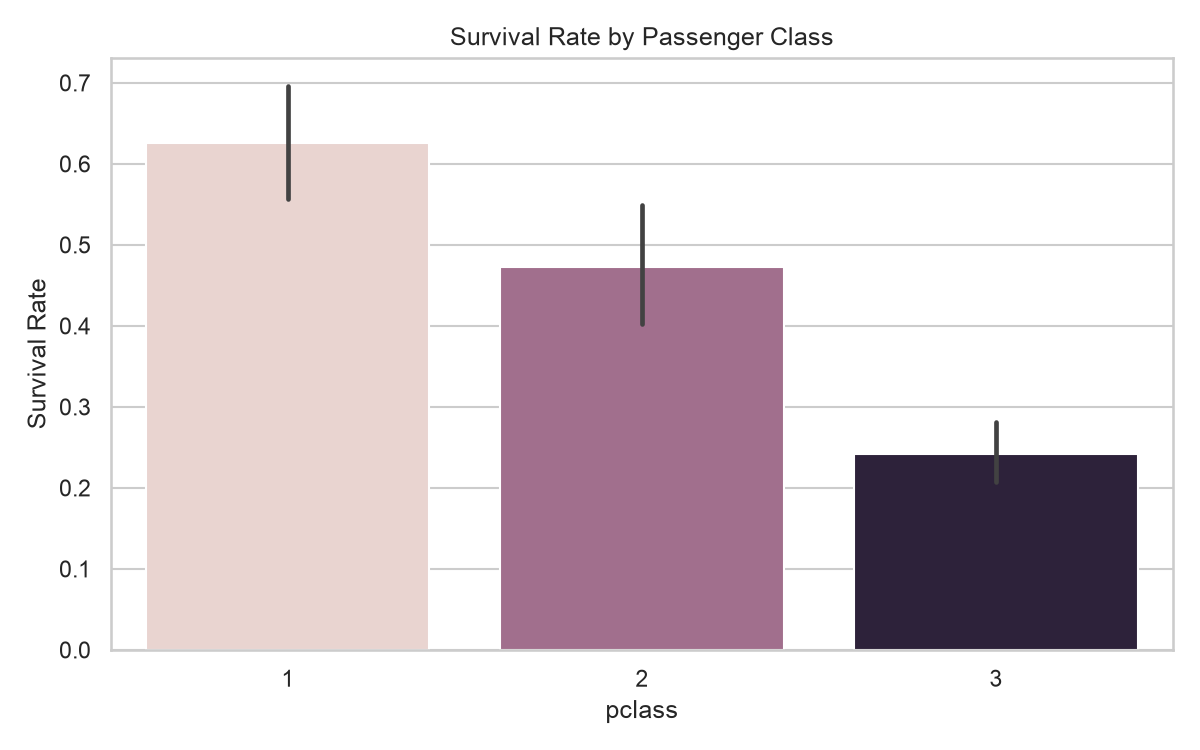
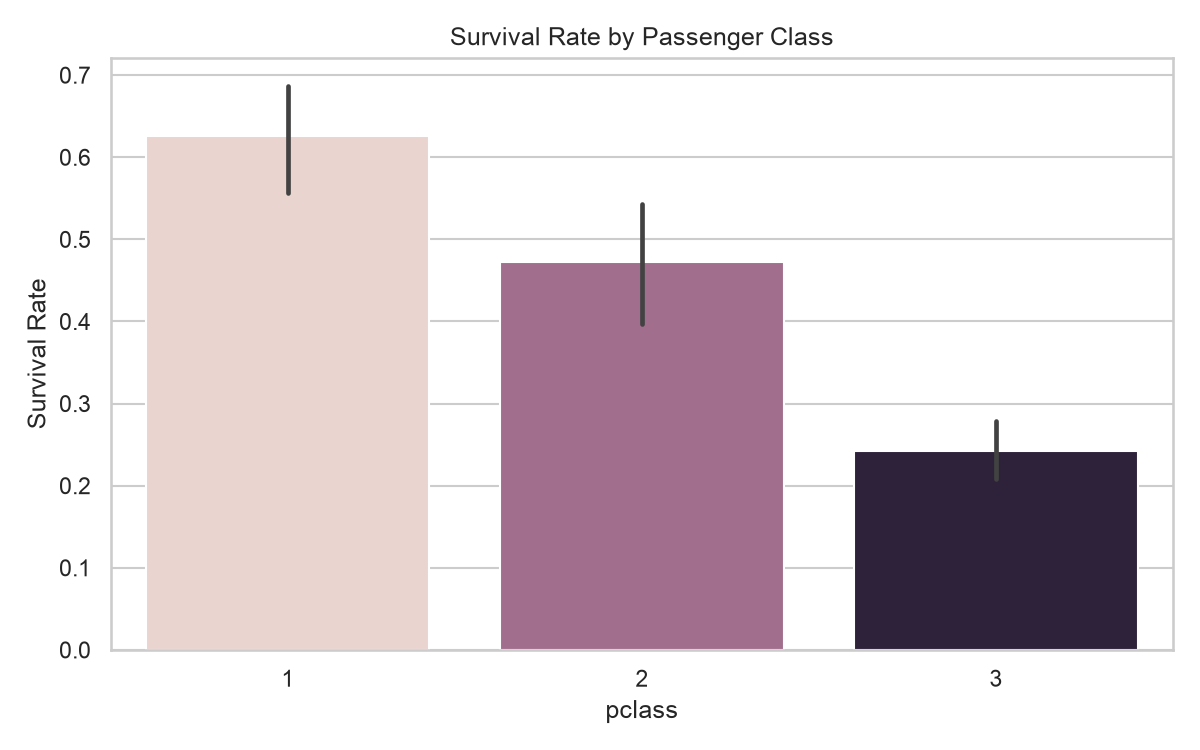
feat: add multivariate Titanic visualizations

diff --git a/analytics/titanic_analysis.py b/analytics/titanic_analysis.py
@@ -486,7 +486,132 @@ def main():
     plt.close()
 
     # ---------------------------------------------------------------
-    # 8. STANDARDIZATION SANITY CHECK
+    # 8. ADDITIONAL MULTIVARIATE VISUALIZATIONS
+    # ---------------------------------------------------------------
+
+    # Multivariate Chart 1: Age vs Fare, with survival and sex.
+    plt.figure(figsize=(10, 6))
+    sns.scatterplot(
+        data=cleaned,
+        x="age",
+        y="fare",
+        hue="survived",
+        style="sex",
+        alpha=0.75
+    )
+    plt.title("Age vs Fare by Survival and Sex")
+    plt.xlabel("Age")
+    plt.ylabel("Fare")
+    plt.tight_layout()
+    plt.savefig(
+        FIGURES_DIR / "age_fare_survival_sex.png",
+        dpi=150
+    )
+    plt.close()
+
+    print("\nMultivariate Chart 1 Interpretation:")
+    print(
+        "The scatter plot examines age and fare while distinguishing passengers "
+        "by survival outcome and sex. Higher fares are spread across a wide age "
+        "range, while survival patterns differ between the two survival groups."
+    )
+
+    # Multivariate Chart 2: Age by passenger class and survival.
+    plt.figure(figsize=(10, 6))
+    sns.boxplot(
+        data=cleaned,
+        x="pclass",
+        y="age",
+        hue="survived"
+    )
+    plt.title("Age Distribution by Passenger Class and Survival")
+    plt.xlabel("Passenger Class")
+    plt.ylabel("Age")
+    plt.tight_layout()
+    plt.savefig(
+        FIGURES_DIR / "age_by_class_and_survival.png",
+        dpi=150
+    )
+    plt.close()
+
+    print("\nMultivariate Chart 2 Interpretation:")
+    print(
+        "This chart compares age distributions across passenger classes while "
+        "also separating survivors from non-survivors. Passenger classes show "
+        "different age distributions, and survival status provides an additional "
+        "dimension for comparing those distributions."
+    )
+
+    # Multivariate Chart 3: Fare by passenger class and survival.
+    plt.figure(figsize=(10, 6))
+    sns.boxplot(
+        data=cleaned,
+        x="pclass",
+        y="fare",
+        hue="survived"
+    )
+    plt.title("Fare Distribution by Passenger Class and Survival")
+    plt.xlabel("Passenger Class")
+    plt.ylabel("Fare")
+    plt.tight_layout()
+    plt.savefig(
+        FIGURES_DIR / "fare_by_class_and_survival.png",
+        dpi=150
+    )
+    plt.close()
+
+    print("\nMultivariate Chart 3 Interpretation:")
+    print(
+        "Fare distributions vary substantially across passenger classes, with "
+        "higher-class passengers generally having higher fares. Separating the "
+        "groups by survival allows the relationship between fare level, class, "
+        "and survival to be examined together."
+    )
+
+    # Multivariate Chart 4: Survival rate by class, sex, and embarkation port.
+    survival_by_three = (
+        cleaned.groupby(
+            ["pclass", "sex", "embarked"],
+            observed=True
+        )["survived"]
+        .mean()
+        .reset_index()
+    )
+
+    survival_by_three["sex_embarked"] = (
+        survival_by_three["sex"]
+        + " / "
+        + survival_by_three["embarked"]
+    )
+
+    plt.figure(figsize=(12, 7))
+    sns.barplot(
+        data=survival_by_three,
+        x="pclass",
+        y="survived",
+        hue="sex_embarked",
+        errorbar=None
+    )
+    plt.title("Survival Rate by Class, Sex, and Embarkation Port")
+    plt.xlabel("Passenger Class")
+    plt.ylabel("Survival Rate")
+    plt.tight_layout()
+    plt.savefig(
+        FIGURES_DIR / "survival_class_sex_embarked.png",
+        dpi=150
+    )
+    plt.close()
+
+    print("\nMultivariate Chart 4 Interpretation:")
+    print(
+        "This grouped analysis combines passenger class, sex, and embarkation "
+        "port while examining survival rate. The chart highlights how survival "
+        "rates vary across class and sex groups, while the underlying grouping "
+        "also accounts for embarkation port."
+    )
+
+    # ---------------------------------------------------------------
+    # 9. STANDARDIZATION SANITY CHECK
     # ---------------------------------------------------------------
 
     print("\n" + "=" * 70)
